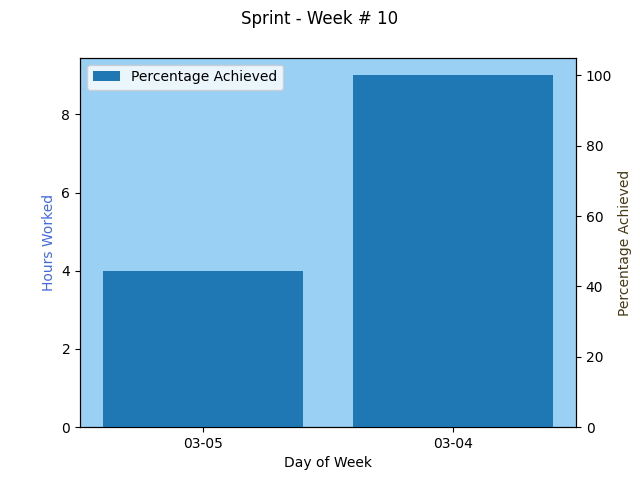
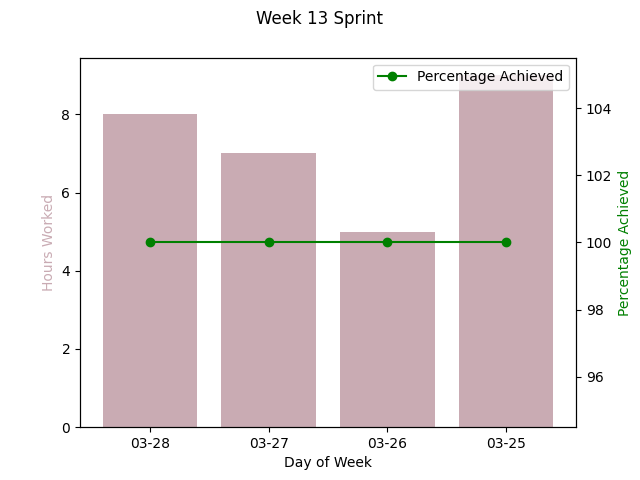
updated look and feel of homepage

diff --git a/templates/pages/homepage.html b/templates/pages/homepage.html
@@ -37,12 +37,21 @@
           </li>
         {% endfor %}      
     </div>
-    <div class="col">    
+    <div class="col">     
         <h4>What's up today...</h4>
+        <div>
+          {% if messages %}    
+            {% for message in messages %}
+              {{message}}
+            {% endfor %}
+          {% endif %}
+        </div>
         <table class="table">
           <thead>
             <tr>
               <th>Task</th>
+              <th></th>
+              <th></th>
               <th>Planned Hours</th>
               <th>Time Spent</th>
               <th>Status</th>
@@ -55,7 +64,9 @@
                   <a class="{{task.status|color_filter}} a_no_underline" href="{% url 'task_detail' task.id %}">
                     {{ task.title }}
                   </a></td>
-                <td>{{ task.effort_hours }}</td>
+                <td width="50px"><a id="start_{{task.id}}" class="start_button" href="{% url 'task_update_start_time' task.id %}" onclick="disable_button(this)">Start</a></td>
+                <td width="30px"><a id="end_{{task.id}}" class="end_button" href="{% url 'task_update_end_time' task.id %}" onclick="disable_button(this)">End</a></td>
+                <td style="text-align: center;">{{ task.effort_hours }}</td>
                 <td>{{ task.get_hours_worked }}</td>
                 <td>{{ task.status }}</td>
               </tr>
@@ -65,6 +76,10 @@
         <div class="mt-5">
           <h4>Sprint Performance</h4>
           <img src="{% static 'images/sprint_performance.png' %}" alt="Sprint Performance">
+        </div>
+        <div class="mt-5">
+          <h4>Last 5 Sprints Achievement</h4>
+          <img src="{% static 'images/recent_sprints_performance.png' %}" alt="Sprint Performance">
         </div>
       </div>
 

diff --git a/templates/track/sprints/sprint_detail.html b/templates/track/sprints/sprint_detail.html
@@ -13,9 +13,9 @@
             <td><strong>Title</strong></td>
             <td>{{ sprint.title }}</td>
           </tr>
-          <tr>
+          <tr>ik,
             <td><strong>Description</strong></td>
-            <td>{{ sprint.description }}</td>
+            <td>{{ sprint.description|safe }}</td>
           </tr>
             <td><strong>Start Date</strong></td>
             <td>{{ sprint.start_date }}</td>
@@ -28,9 +28,13 @@
             <td>{{ sprint.status }} - <strong>{{ sprint.get_percentage_completed }}</strong> % complete</td>
           </tr>
           <tr>
+            <td><strong>Hours Planned</strong></td>
+            <td>{{ sprint.get_time_planned_this_sprint }}</td>
+          </tr>            
+          <tr>
             <td><strong>Comments</strong></td>
             <td>{{ sprint.comments }}</td>
-          </tr>            
+          </tr>
         </tbody>    
       </table>  
     </div>
@@ -51,11 +55,11 @@
             <th>Status</th>
           </tr>
         </thead>    
-      {% for task in sprint.sprint_tasks.all|dictsort:"objective_id" %}
+      {% for task in sprint.sprint_tasks.all|dictsortreversed:"due_date" %}
         <tbody>
           <tr>
-            <td><a href="{% url 'task_detail' task.id%}">{{ task.title }}</a></td>
-            <td>{{ task.objective}}</td>
+            <td><a href="{% url 'task_detail' task.id%}">{{ task.title|safe }}</a></td>
+            <td>{{ task.objective|safe}}</td>
             <td>{{ task.effort_hours }}</td>        
             <td>{{ task.due_date|date }}</td>
             <td>{{ task.status }}</td>

diff --git a/static/css/base.css b/static/css/base.css
@@ -45,3 +45,32 @@ li {
     color: navy;
 }
 
+
+.start_button {
+    border: 1px solid green;
+    border-radius: 3px;
+    background-color: #003400;
+    color: white;
+    margin: 1px;
+    padding: .2em;
+    text-decoration: none;
+}
+
+.start_button:hover {
+    background-color: green;
+}
+
+.end_button {
+    border: 1px solid red;
+    background-color: #C70039;
+    border-radius: 3px;
+    color: white;
+    margin: 1px;
+    padding: .2em;
+    text-decoration: none;
+}
+
+.end_button:hover {
+    background-color: red;
+}
+

diff --git a/templates/track/objectives/objective_edit.html b/templates/track/objectives/objective_edit.html
@@ -5,10 +5,13 @@
 
 {% block content %}
 
-  <form action="" method="post">
-    {% csrf_token %}
-    {{ form|crispy }}
-    <button class="btn btn-outline-primary" type="submit">Update</button>
-  </form>
+  <div class="container mt-5">
+    <h4 class="mb-3">Edit Objective</h4>
+    <form action="" method="post">
+      {% csrf_token %}
+      {{ form|crispy }}
+      <button class="btn btn-outline-primary" type="submit">Update</button>
+    </form>
+  </div>
 
 {% endblock %}

diff --git a/templates/_base.html b/templates/_base.html
@@ -51,6 +51,7 @@
   <footer>
     <!-- TODO: footer -->
   </footer>
+  
   <script src="https://cdn.jsdelivr.net/npm/bootstrap@5.3.2/dist/js/bootstrap.bundle.min.js" integrity="sha384-C6RzsynM9kWDrMNeT87bh95OGNyZPhcTNXj1NW7RuBCsyN/o0jlpcV8Qyq46cDfL" crossorigin="anonymous"></script>
   <script src="{% static 'js/base.js' %}"></script>
 </body>

diff --git a/templates/track/sprints/sprint_add.html b/templates/track/sprints/sprint_add.html
@@ -9,7 +9,9 @@
     <h4>New Sprint</h4><br>
     <form action="" method="POST">
       {% csrf_token %}
-      {{ form|crispy }}
+
+        {{ form|crispy|safe }}
+
       <button class="btn btn-success" type="submit">Add</button>
     </form>
   </div>

diff --git a/templates/track/sprints/sprint_edit.html b/templates/track/sprints/sprint_edit.html
@@ -8,7 +8,7 @@
 
     <form action="" method="post">
       {% csrf_token %}
-      {{ form|crispy }}
+      {{ form|crispy|safe }}
       <button class="btn btn-outline-primary" type="submit">Update</button>
     </form>
 

diff --git a/static/js/base.js b/static/js/base.js
@@ -1,0 +1,5 @@
+function disable_button(btn){
+    btn.disabled = true;
+    btn.hidden = true;
+    console.log(btn)
+}

diff --git a/track/views.py b/track/views.py
@@ -1,4 +1,6 @@
-from typing import Any
+from datetime import datetime
+
+from django.contrib import messages
 from django.db.models.base import Model as Model
 from django.http import HttpResponseRedirect, HttpResponseForbidden
 from django.shortcuts import render, get_object_or_404, redirect
@@ -9,6 +11,7 @@ from django.views.generic import (
     DeleteView, ListView, CreateView,
     TemplateView, UpdateView, DetailView
 )
+
 from django.contrib.auth.mixins import LoginRequiredMixin
 
 from track import forms
@@ -18,7 +21,6 @@ from track import models
 from track.models import (
     Goal, Objective, Task, Sprint
 )
-
 
 # Goals
 
@@ -205,8 +207,18 @@ class TaskCreateView(LoginRequiredMixin, CreateView):
         "start_time", "end_time", "effort_hours", "objective", "sprint",
         "backlog",
     )    
-    success_url = reverse_lazy("tasks_list")
 
+    def get_success_url(self):
+        print(dir(self.object))
+        return reverse("sprint_detail", kwargs={"pk": self.object.sprint_id})
+    
+    # success_url = reverse_lazy("tasks_list")
+
+    def get_form(self, *args, **kwargs):
+        form = super().get_form(*args, **kwargs)
+        form.fields["sprint"].queryset = Sprint.objects.order_by("-start_date")
+        return form
+    
     def form_valid(self, form):
         form.instance.owner = self.request.user
         form.instance.save()
@@ -221,7 +233,9 @@ class TaskUpdateView(LoginRequiredMixin, UpdateView):
         "start_time", "end_time", "effort_hours", "objective", "sprint",
         "backlog",
     )
-    success_url = reverse_lazy("tasks_list")
+    
+    def get_success_url(self):
+        return reverse("sprint_detail", kwargs={"pk": self.object.sprint_id})
 
     def form_valid(self, form):
         form.instance.owner = self.request.user
@@ -232,13 +246,39 @@ class TaskUpdateView(LoginRequiredMixin, UpdateView):
 class TaskDeleteView(LoginRequiredMixin, DeleteView):
     model = Task
     template_name = "track/tasks/task_delete.html"
-    success_url = reverse_lazy("tasks_list")
 
     def get(self, *args, **kwargs):
         self.object = self.get_object()
         if self.object.owner != self.request.user:
             return redirect(reverse_lazy("unauthorized"))
         return super().post(self.request, *args, **kwargs)
+    
+    def get_success_url(self):
+        return reverse("sprint_detail", kwargs={"pk": self.object.sprint_id})
+    
+
+def task_update_start_time(request, pk):
+    task = Task.objects.get(id=pk)
+    current_time = datetime.now().time()
+    if task.status != "complete":    
+        task.start_time = current_time
+        task.save()
+        messages.info(request, f"<<{task}>> started on {current_time}.")
+    else:
+        messages.warning(request, f"Can't start a completed task!")
+    return redirect(reverse("homepage"))
+
+def task_update_end_time(request, pk):
+    task = Task.objects.get(id=pk)
+    current_time = datetime.now().time()
+    if task.status != "complete":
+        task.end_time = current_time
+        task.save()
+        messages.info(request, f"<<{task}>> ended on {current_time.hour}:{current_time.minute}")
+    else:
+        messages.warning(request, f"Task has already ended.")
+    return redirect(reverse("homepage"))
+
     
 
 #========================= for sprints

diff --git a/pages/views.py b/pages/views.py
@@ -47,20 +47,37 @@ def homepage(request):
             print(current_sprint.get_percentage_completed_by_date)
 
             fig, ax1 = plt.subplots()
-            # ax1.bar(day_of_week, hours_worked, linestyle='--', markersize=12, color='royalblue', marker='o', label="Hours worked")
-            ax1.bar(day_of_week, hours_worked, label="Hours worked")
+            ax1.bar(day_of_week, hours_worked, label="Hours worked", color="#c9abb3")
             ax1.set_xlabel("Day of Week")
-            ax1.set_ylabel("Hours Worked", color='royalblue')
+            ax1.set_ylabel("Hours Worked", color='#c9abb3')
             ax2 = ax1.twinx()
-            # ax2.bar(day_of_week, percentage_achieved, color='#ffffff', marker='o', label="Percentage Achieved")
-            ax2.bar(day_of_week, percentage_achieved, label="Percentage Achieved")
-            ax2.set_ylabel("Percentage Achieved", color='#463A14')
-            ax1.set_facecolor("#36A2EB80") 
+            ax2.plot(day_of_week, percentage_achieved, label="Percentage Achieved", marker='o', color="green")
+            ax2.set_ylabel("Percentage Achieved", color='green')
             plt.legend()
             plt.grid(False)
             fig.suptitle(current_sprint.title)
             fig.savefig(path.join(settings.STATICFILES_DIRS[0], 'images/sprint_performance.png'))
             
+            recent_sprints = Sprint.objects.order_by("-start_date")[:6]
+            recent_sprint_ids = ["WK"+str(sprint.id+1) for sprint in recent_sprints]
+            recent_sprints_percent_completed = [sprint.get_percentage_completed for sprint in recent_sprints]
+            f1 = plt.figure()
+            cols = []
+            for percentage in recent_sprints_percent_completed:
+                print(percentage)
+                if percentage > 95:
+                    cols.append('#006400')
+                elif percentage > 90 and percentage < 95:
+                    cols.append('#708238')
+                elif percentage > 60 and percentage < 90:
+                    cols.append('#b2ac88')
+                else:
+                    cols.append('#dc143c')
+            plt.bar(recent_sprint_ids, recent_sprints_percent_completed, color=cols)
+            plt.bar_label(plt.gca().containers[0])
+            plt.xlabel("Sprint")
+            plt.ylabel("Percentage Achieved")
+            f1.savefig(path.join(settings.STATICFILES_DIRS[0], 'images/recent_sprints_performance.png'))
 
             context["sprint"] = current_sprint
             context["sprint_task_count"] = current_sprint_total_tasks

diff --git a/track/urls.py b/track/urls.py
@@ -35,6 +35,8 @@ urlpatterns = [
     path("tasks/add", TaskCreateView.as_view(), name="task_add"),
     path("tasks/<int:pk>/", TaskDetailView.as_view(), name="task_detail"),
     path("tasks/<int:pk>/update/", TaskUpdateView.as_view(), name="task_update"),
+    path("tasks/<int:pk>/update_start_time/", views.task_update_start_time, name="task_update_start_time"),
+    path("tasks/<int:pk>/update_end_time/", views.task_update_end_time, name="task_update_end_time"),
     path("tasks/<int:pk>/delete/", TaskDeleteView.as_view(), name="task_delete"),
     path("tasks/backlog/", views.BacklogList.as_view(), name="backlog_list"),
     # Sprints

diff --git a/track/models.py b/track/models.py
@@ -95,6 +95,13 @@ class Sprint(models.Model):
         for task in self.sprint_tasks.all():
             sum += task.end_time.hour - task.start_time.hour
         return sum
+    
+    @property
+    def get_time_planned_this_sprint(self):
+        sum = 0
+        for task in self.sprint_tasks.all():
+            sum += task.effort_hours
+        return sum
 
     @property
     def get_hours_worked_per_day(self):
